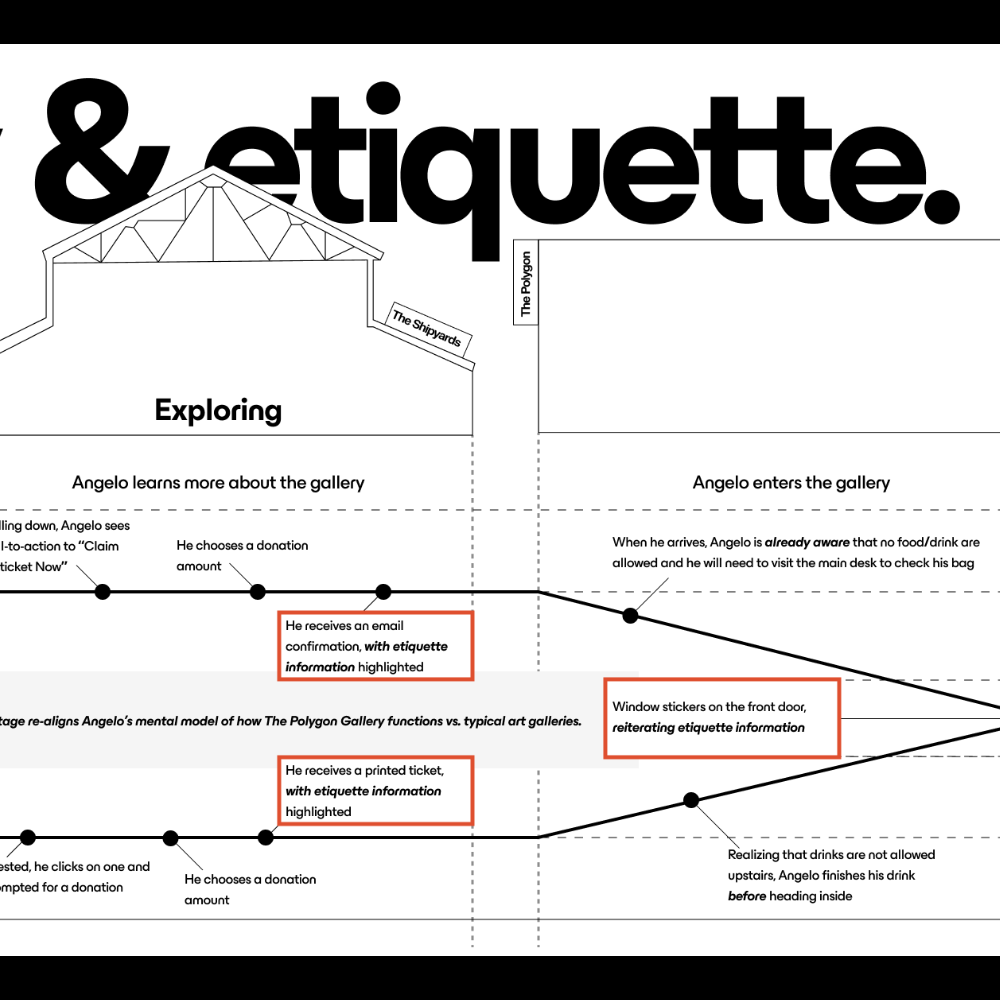
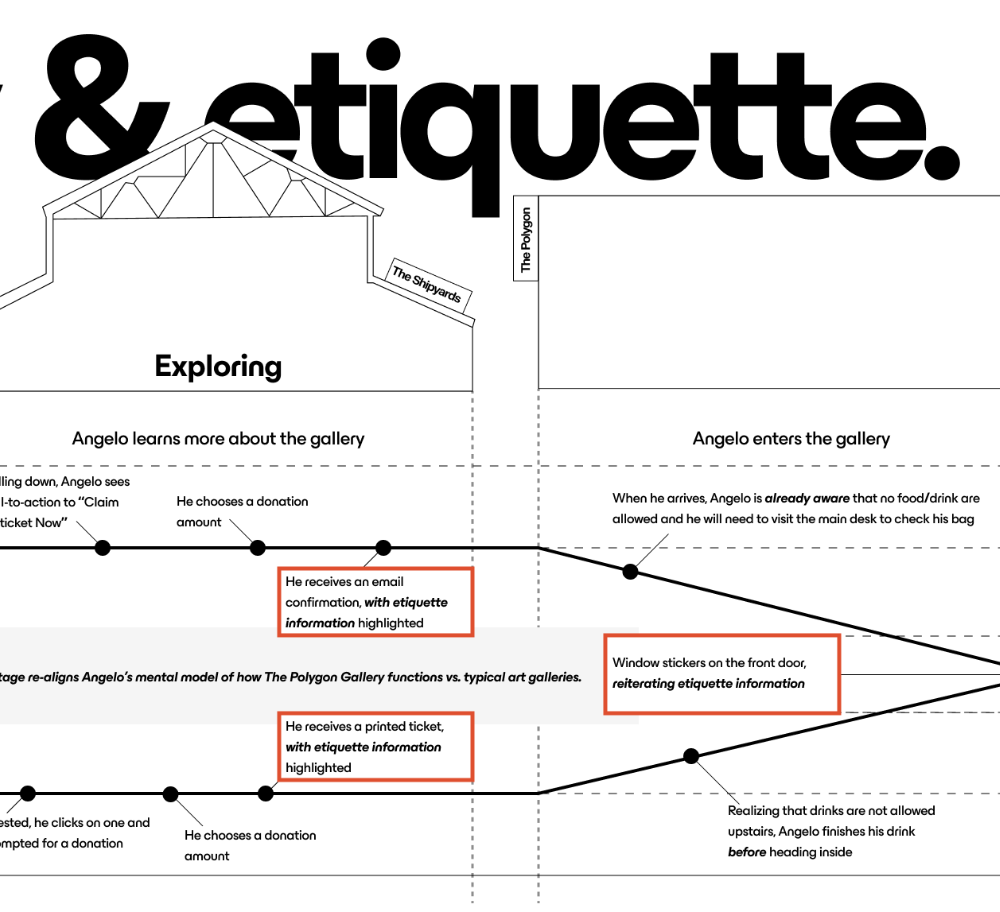
edit images and reorder slides

diff --git a/css/style.css b/css/style.css
@@ -1,1 +1,1 @@
-@import"https://fonts.googleapis.com/css2?family=Poppins:wght@100;300;400;700;900&display=swap";@import"https://fonts.googleapis.com/css2?family=Open+Sans:wght@300;400;700&display=swap";*{box-sizing:border-box;margin:0;padding:0}body{background-color:#f3ead8;font-family:Poppins,Open Sans,Helvetica,Arial,sans-serif;line-height:1.6;color:#333}img{border-radius:8px;height:30rem;-o-object-fit:cover;object-fit:cover;-o-object-position:top;object-position:top;max-width:100%}a{text-decoration:none;color:#70823e}p{max-width:38rem}#projects{padding-top:100px;margin-top:-100px}#project1{padding-top:100px;margin-top:-100px}#project2{padding-top:100px;margin-top:-100px}.showcase{background-color:#f3ead8;color:#333;margin-bottom:6rem}.showcase nav{display:flex;align-items:center;justify-content:space-between}.showcase nav a{text-decoration:none;color:#333;transition:color .25s}.showcase nav a:hover{color:#70823e}.showcase nav ul{display:flex;list-style:none}.showcase nav li{padding:15px}.showcase .hero{padding-right:1.5rem;margin-right:5rem}.showcase .hero-image{height:300px;width:300px}.showcase-content{height:100vh;display:flex;align-items:center;justify-content:center;padding-bottom:7rem}.showcase-content img{width:50%}.showcase-content h1{font-size:50px;line-height:1.2;margin-bottom:.25rem}#sticky-header{position:fixed;top:0;left:0;width:100%;box-shadow:0 0 50px rgba(0,0,0,.1);z-index:1;background-color:#f3ead8;color:#333}#sticky-header nav{display:flex;align-items:center;justify-content:space-between}#sticky-header nav a{text-decoration:none;color:#333;transition:color .25s}#sticky-header nav a:hover{color:#70823e}#sticky-header nav ul{display:flex;list-style:none}#sticky-header nav li{padding:15px}.guide-grid{display:grid;grid-template-columns:1fr 1fr 1fr;-moz-column-gap:3rem;column-gap:3rem}.guide-grid .column,.guide-grid .right,.guide-grid .middle,.guide-grid .left{width:100%;display:flex;flex-direction:column;justify-content:flex-start;margin-top:1rem;margin-bottom:10rem;padding:0}.guide-grid .column p,.guide-grid .right p,.guide-grid .middle p,.guide-grid .left p{margin:1rem 0}.guide-grid .column .container,.guide-grid .right .container,.guide-grid .middle .container,.guide-grid .left .container{margin:0}.guide-grid .example-showcase{background-color:#f3ead8;color:#333;display:flex;flex-direction:column;height:40%}.guide-grid .example-showcase .logo{margin-top:1rem;margin-bottom:1rem}.guide-grid .example-showcase nav{display:flex;flex-direction:column;align-items:left;justify-content:space-between}.guide-grid .example-showcase nav a{text-decoration:none;color:#333;transition:color .25s}.guide-grid .example-showcase nav a:hover{color:#70823e}.guide-grid .example-showcase nav ul{display:flex;flex-direction:column;align-items:left;list-style:none}.guide-grid .example-showcase nav li{padding:0}.font-box{display:flex;flex-direction:column;align-items:left;justify-self:flex-start}.example-font-1{font-family:Poppins}.example-font-2{font-family:Open Sans}.example-font-3{font-family:Helvetica}.example-font-4{font-family:Arial}.example-colour-0,.example-colour-6,.example-colour-5,.example-colour-4,.example-colour-3,.example-colour-2,.example-colour-1{background-color:gray;border-radius:8px;padding:1rem;margin:.5rem 0}.example-colour-1{background-color:#70823e}.example-colour-2{background-color:#dfcf99}.example-colour-3{background-color:#e0b44a}.example-colour-4{background-color:#d8853f}.example-colour-5{background-color:#f3ead8}.example-colour-6{background-color:#866c5a}.example-list{padding:0;margin-left:0;display:flex;flex-direction:column;justify-content:left;align-items:left}.example-nav a{text-decoration:none;color:#333;transition:color .25s}.example-nav a:hover{color:#70823e}.bio-grid{display:grid;grid-template-columns:2fr 1fr}.project-grid{display:grid;grid-template-columns:1fr 1fr;-moz-column-gap:2rem;column-gap:2rem;margin-bottom:6rem}.project-grid .column,.project-grid .guide-grid .left,.guide-grid .project-grid .left,.project-grid .guide-grid .middle,.guide-grid .project-grid .middle,.project-grid .guide-grid .right,.guide-grid .project-grid .right{display:flex;flex-direction:column;justify-content:center;align-items:center;margin-bottom:3rem}.project-title{text-align:center;margin-bottom:1rem}.project-flow{display:flex;flex-direction:column;margin-bottom:6rem}.project-flow .flow-row{display:grid;grid-template-columns:1fr 1fr;-moz-column-gap:2rem;column-gap:2rem;margin-bottom:2rem}.thumb{justify-content:center;max-height:300px;max-width:425px;transition:transform .5s}.thumb:hover{transform:scale(0.95)}.slideshow-container{max-width:1000px;position:relative;margin:auto}.mySlides1,.mySlides2,.mySlides3,.mySlides4,.mySlides5,.mySlides6,.mySlides7,.mySlides8{display:none}.prev,.next{cursor:pointer;position:absolute;top:50%;width:auto;margin-top:-22px;padding:16px;color:#fff;font-size:2rem;font-weight:bold;transition:.6s ease;border-radius:0 3px 3px 0;-webkit-user-select:none;-moz-user-select:none;user-select:none}.next{right:0;border-radius:3px 0 0 3px}.prev:hover,.next:hover{background-color:#f1f1f1;color:#000}.text{color:#f2f2f2;padding:8px 12px;position:absolute;bottom:8px;width:100%;text-align:center}.dot{cursor:pointer;height:15px;width:15px;margin:0 2px;background-color:#bbb;border-radius:50%;display:inline-block;transition:background-color .6s ease}.active,.dot:hover{background-color:#717171}.fade{animation-name:fade;animation-duration:1.5s}@keyframes fade{from{opacity:.4}to{opacity:1}}.video-box{margin-bottom:5rem}.bio-box{margin-bottom:5rem}.bio-box ul{margin-left:2rem;margin-bottom:2rem}.video-box{display:flex;justify-content:center;align-items:center}iframe{margin-top:1rem;margin-bottom:2rem}.container{max-width:1100px;padding:0 30px;margin:0 auto;overflow:auto}.contact-info{display:flex;flex-direction:column;justify-content:space-evenly;align-items:center;height:50vh}footer{text-align:center}#pixel-to-watch{position:absolute;width:1px;height:1px;top:100px;left:0}.references{margin-bottom:5rem}.m-1{margin:1rem}.my-1{margin:1rem 0}.p-1{padding:1rem}.py-1{padding:1rem 0}.m-2{margin:2rem}.my-2{margin:2rem 0}.p-2{padding:2rem}.py-2{padding:2rem 0}.m-3{margin:3rem}.my-3{margin:3rem 0}.p-3{padding:3rem}.py-3{padding:3rem 0}.m-4{margin:4rem}.my-4{margin:4rem 0}.p-4{padding:4rem}.py-4{padding:4rem 0}.m-5{margin:5rem}.my-5{margin:5rem 0}.p-5{padding:5rem}.py-5{padding:5rem 0}.btn-tertiary,.btn-secondary,.btn-primary{display:inline-block;border-radius:5px;padding:8px 20px;margin:3px;max-width:500px;transition:transform .5s}.btn-tertiary:hover,.btn-secondary:hover,.btn-primary:hover{transform:scale(0.95);cursor:pointer}.btn-primary{background-color:#70823e;color:#fff}.btn-secondary{background-color:#94ab52;color:#fff}.btn-tertiary{background-color:#b0c17e;color:#fff}.btn-stack{display:flex;flex-direction:row;justify-content:flex-start;align-items:start}.img-link{-o-object-fit:cover;object-fit:cover;width:200px;height:200px;border-radius:50%;transition:transform .5s}.img-link:hover{transform:scale(0.95)}.image-link-box{display:flex;justify-content:flex-start;align-items:center}@media(max-width: 700px){.showcase .logo{white-space:nowrap}.showcase nav{display:flex;flex-direction:column}.showcase .hero{padding-left:0;padding-right:0;margin-left:0;margin-right:0}.showcase .hero .myRole{margin-top:1rem}.showcase .btn-stack{margin-top:4rem}.showcase-content{text-align:center}.showcase-content img{display:none}.btn-stack{display:flex;flex-direction:column;justify-content:space-evenly;align-items:center}.btn-primary,.btn-secondary,.btn-tertiary{width:100%}.guide-grid{display:grid;grid-template-columns:1fr}}@media(max-width: 800px){.project-grid{display:flex;flex-direction:column}.project-flow{display:flex;flex-direction:column;margin-bottom:6rem}.project-flow .flow-row{display:grid;grid-template-columns:1fr;-moz-column-gap:2rem;column-gap:2rem;margin-bottom:2rem}.bio-grid{display:grid;grid-template-columns:1fr}.hero-image{display:none}}/*# sourceMappingURL=style.css.map */
+@import"https://fonts.googleapis.com/css2?family=Poppins:wght@100;300;400;700;900&display=swap";@import"https://fonts.googleapis.com/css2?family=Open+Sans:wght@300;400;700&display=swap";*{box-sizing:border-box;margin:0;padding:0}body{background-color:#f3ead8;font-family:Poppins,Open Sans,Helvetica,Arial,sans-serif;line-height:1.6;color:#333}img{border-radius:8px;height:30rem;-o-object-fit:cover;object-fit:cover;-o-object-position:top;object-position:top;max-width:100%}a{text-decoration:none;color:#70823e}p{max-width:38rem}#projects{padding-top:100px;margin-top:-100px}#project1{padding-top:100px;margin-top:-100px}#project2{padding-top:100px;margin-top:-100px}.showcase{background-color:#f3ead8;color:#333;margin-bottom:6rem}.showcase nav{display:flex;align-items:center;justify-content:space-between}.showcase nav a{text-decoration:none;color:#333;transition:color .25s}.showcase nav a:hover{color:#70823e}.showcase nav ul{display:flex;list-style:none}.showcase nav li{padding:15px}.showcase .hero{padding-right:1.5rem;margin-right:5rem}.showcase .hero-image{height:300px;width:300px}.showcase-content{height:100vh;display:flex;align-items:center;justify-content:center;padding-bottom:7rem}.showcase-content img{width:50%}.showcase-content h1{font-size:50px;line-height:1.2;margin-bottom:.25rem}#sticky-header{position:fixed;top:0;left:0;width:100%;box-shadow:0 0 50px rgba(0,0,0,.1);z-index:1;background-color:#f3ead8;color:#333}#sticky-header nav{display:flex;align-items:center;justify-content:space-between}#sticky-header nav a{text-decoration:none;color:#333;transition:color .25s}#sticky-header nav a:hover{color:#70823e}#sticky-header nav ul{display:flex;list-style:none}#sticky-header nav li{padding:15px}.guide-grid{display:grid;grid-template-columns:1fr 1fr 1fr;-moz-column-gap:3rem;column-gap:3rem}.guide-grid .column,.guide-grid .right,.guide-grid .middle,.guide-grid .left{width:100%;display:flex;flex-direction:column;justify-content:flex-start;margin-top:1rem;margin-bottom:10rem;padding:0}.guide-grid .column p,.guide-grid .right p,.guide-grid .middle p,.guide-grid .left p{margin:1rem 0}.guide-grid .column .container,.guide-grid .right .container,.guide-grid .middle .container,.guide-grid .left .container{margin:0}.guide-grid .example-showcase{background-color:#f3ead8;color:#333;display:flex;flex-direction:column;height:40%}.guide-grid .example-showcase .logo{margin-top:1rem;margin-bottom:1rem}.guide-grid .example-showcase nav{display:flex;flex-direction:column;align-items:left;justify-content:space-between}.guide-grid .example-showcase nav a{text-decoration:none;color:#333;transition:color .25s}.guide-grid .example-showcase nav a:hover{color:#70823e}.guide-grid .example-showcase nav ul{display:flex;flex-direction:column;align-items:left;list-style:none}.guide-grid .example-showcase nav li{padding:0}.font-box{display:flex;flex-direction:column;align-items:left;justify-self:flex-start}.example-font-1{font-family:Poppins}.example-font-2{font-family:Open Sans}.example-font-3{font-family:Helvetica}.example-font-4{font-family:Arial}.example-colour-0,.example-colour-6,.example-colour-5,.example-colour-4,.example-colour-3,.example-colour-2,.example-colour-1{background-color:gray;border-radius:8px;padding:1rem;margin:.5rem 0}.example-colour-1{background-color:#70823e}.example-colour-2{background-color:#dfcf99}.example-colour-3{background-color:#e0b44a}.example-colour-4{background-color:#d8853f}.example-colour-5{background-color:#f3ead8}.example-colour-6{background-color:#866c5a}.example-list{padding:0;margin-left:0;display:flex;flex-direction:column;justify-content:left;align-items:left}.example-nav a{text-decoration:none;color:#333;transition:color .25s}.example-nav a:hover{color:#70823e}.bio-grid{display:grid;grid-template-columns:2fr 1fr}.project-grid{display:grid;grid-template-columns:1fr 1fr;-moz-column-gap:2rem;column-gap:2rem;margin-bottom:6rem}.project-grid .column,.project-grid .guide-grid .left,.guide-grid .project-grid .left,.project-grid .guide-grid .middle,.guide-grid .project-grid .middle,.project-grid .guide-grid .right,.guide-grid .project-grid .right{display:flex;flex-direction:column;justify-content:center;align-items:center;margin-bottom:3rem}.project-title{text-align:center;margin-bottom:1rem}.project-flow{display:flex;flex-direction:column;margin-bottom:6rem}.project-flow .flow-row{display:grid;grid-template-columns:1fr 1fr;-moz-column-gap:2rem;column-gap:2rem;margin-bottom:2rem}.thumb{justify-content:center;max-width:450px;transition:transform .5s}.thumb:hover{transform:scale(0.95)}.slideshow-container{max-width:1000px;position:relative;margin:auto}.mySlides1,.mySlides2,.mySlides3,.mySlides4,.mySlides5,.mySlides6,.mySlides7,.mySlides8{display:none}.prev,.next{cursor:pointer;position:absolute;top:50%;width:auto;margin-top:-22px;padding:16px;color:#fff;font-size:2rem;font-weight:bold;transition:.6s ease;border-radius:0 3px 3px 0;-webkit-user-select:none;-moz-user-select:none;user-select:none}.next{right:0;border-radius:3px 0 0 3px}.prev:hover,.next:hover{background-color:#f1f1f1;color:#000}.text{color:#f2f2f2;padding:8px 12px;position:absolute;bottom:8px;width:100%;text-align:center}.dot{cursor:pointer;height:15px;width:15px;margin:0 2px;background-color:#bbb;border-radius:50%;display:inline-block;transition:background-color .6s ease}.active,.dot:hover{background-color:#717171}.fade{animation-name:fade;animation-duration:1.5s}@keyframes fade{from{opacity:.4}to{opacity:1}}.video-box{margin-bottom:5rem}.bio-box{margin-bottom:5rem}.bio-box ul{margin-left:2rem;margin-bottom:2rem}.video-box{display:flex;justify-content:center;align-items:center}iframe{margin-top:1rem;margin-bottom:2rem}.container{max-width:1100px;padding:0 30px;margin:0 auto;overflow:auto}.contact-info{display:flex;flex-direction:column;justify-content:space-evenly;align-items:center;height:50vh}footer{text-align:center}#pixel-to-watch{position:absolute;width:1px;height:1px;top:100px;left:0}.references{margin-bottom:5rem}.m-1{margin:1rem}.my-1{margin:1rem 0}.p-1{padding:1rem}.py-1{padding:1rem 0}.m-2{margin:2rem}.my-2{margin:2rem 0}.p-2{padding:2rem}.py-2{padding:2rem 0}.m-3{margin:3rem}.my-3{margin:3rem 0}.p-3{padding:3rem}.py-3{padding:3rem 0}.m-4{margin:4rem}.my-4{margin:4rem 0}.p-4{padding:4rem}.py-4{padding:4rem 0}.m-5{margin:5rem}.my-5{margin:5rem 0}.p-5{padding:5rem}.py-5{padding:5rem 0}.btn-tertiary,.btn-secondary,.btn-primary{display:inline-block;border-radius:5px;padding:8px 20px;margin:3px;max-width:500px;transition:transform .5s}.btn-tertiary:hover,.btn-secondary:hover,.btn-primary:hover{transform:scale(0.95);cursor:pointer}.btn-primary{background-color:#70823e;color:#fff}.btn-secondary{background-color:#94ab52;color:#fff}.btn-tertiary{background-color:#b0c17e;color:#fff}.btn-stack{display:flex;flex-direction:row;justify-content:flex-start;align-items:start}.img-link{-o-object-fit:cover;object-fit:cover;width:200px;height:200px;border-radius:50%;transition:transform .5s}.img-link:hover{transform:scale(0.95)}.image-link-box{display:flex;justify-content:flex-start;align-items:center}@media(max-width: 700px){.showcase .logo{white-space:nowrap}.showcase nav{display:flex;flex-direction:column}.showcase .hero{padding-left:0;padding-right:0;margin-left:0;margin-right:0}.showcase .hero .myRole{margin-top:1rem}.showcase .btn-stack{margin-top:4rem}.showcase-content{text-align:center}.showcase-content img{display:none}.btn-stack{display:flex;flex-direction:column;justify-content:space-evenly;align-items:center}.btn-primary,.btn-secondary,.btn-tertiary{width:100%}.guide-grid{display:grid;grid-template-columns:1fr}}@media(max-width: 800px){.project-grid{display:flex;flex-direction:column}.project-flow{display:flex;flex-direction:column;margin-bottom:6rem}.project-flow .flow-row{display:grid;grid-template-columns:1fr;-moz-column-gap:2rem;column-gap:2rem;margin-bottom:2rem}.bio-grid{display:grid;grid-template-columns:1fr}.hero-image{display:none}}/*# sourceMappingURL=style.css.map */

diff --git a/index.html b/index.html
@@ -103,7 +103,7 @@
 
                 <div class="column">
                     <a href="#project2">
-                        <img class="thumb" src="img/polygon/polygon_thumb.png" alt="poster showcasing some of the exhibits at The Polygon Gallery in North Vancouver, the building architecture is modern and stylish">
+                        <img class="thumb" src="img/polygon/cropped/polygon_final_ticket_station.png" alt="poster showcasing some of the exhibits at The Polygon Gallery in North Vancouver, the building architecture is modern and stylish">
                     </a>
                     The Polygon Gallery - Interaction Desgin
                 </div>
@@ -334,11 +334,11 @@
                         <!-- Slideshow goes here-->
                         <div class="slideshow-container">
                             <div class="mySlides5">
-                            <img src="img/polygon/polygon_ethnography_poster2.png" style="width:100%" alt="Informational poster made to convey who the Polygon Gallery is to classmates and teaching staff. Large type highlights the polygon gallery name, with examples of their exhibits overlaid. Small text blocks highlight the gallery's focus on photography, its location in the shipyards area of north vancouver, and our key contacts in management.">
+                                <img src="img/polygon/polygon_thumb.png" style="width:100%" alt="An iteration on the information poster made to convey who the polygon is. This version features larger images which highlight the modern architecture of the building, the exhibits it holds, and the events that occur there.">
                             </div>
                                            
                             <div class="mySlides5">
-                            <img src="img/polygon/polygon_ethnography_poster1.png" style="width:100%" alt="An iteration on the information poster made to convey who the polygon is. This version features larger images which highlight the modern architecture of the building, the exhibits it holds, and the events that occur there.">
+                                <img src="img/polygon/polygon_ethnography_poster2.png" style="width:100%" alt="Informational poster made to convey who the Polygon Gallery is to classmates and teaching staff. Large type highlights the polygon gallery name, with examples of their exhibits overlaid. Small text blocks highlight the gallery's focus on photography, its location in the shipyards area of north vancouver, and our key contacts in management.">
                             </div>
                         
                             <a class="prev" onclick="plusSlides(-1, 4)">&#10094;</a>
@@ -367,7 +367,7 @@
                         <!-- Slideshow goes here, show scheduling evidence-->
                         <div class="slideshow-container">
                             <div class="mySlides6">
-                                <img src="img/polygon/cropped/polygon_management01.png" style="width:100%" alt="screenshot of internal team messages, where I have recapped the meeting, confirmed roles, set the time for the next meeting, and left prompting questions for our next conversation">
+                                <img src="img/polygon/cropped/polygon_management01.png" style="height: 50%" alt="screenshot of internal team messages, where I have recapped the meeting, confirmed roles, set the time for the next meeting, and left prompting questions for our next conversation">
                             </div>
                         
                             <div class="mySlides6">
@@ -411,7 +411,7 @@
                         <!-- Slideshow goes here, show planning images, drawings, to model, to, render etc.-->
                         <div class="slideshow-container">
                             <div class="mySlides7">
-                            <img src="img/polygon/cropped/polygon_brainstorm_storyboard.png" style="width:100%" alt="screenshot of the team brainstorming process using Figma, there are numerous sticky notes organized into different design focus areas, doodles, sketches, and reference imagery scattered around.">
+                            <img src="img/polygon/cropped/polygon_brainstorm_storyboard.png" style="height:100%" alt="screenshot of the team brainstorming process using Figma, there are numerous sticky notes organized into different design focus areas, doodles, sketches, and reference imagery scattered around.">
                             </div>
                         
                             <div class="mySlides7">
@@ -499,7 +499,7 @@
                         </p>
                     </div>
                     <div class="right">
-                        <img class="img-process" src="img/polygon/cropped/polygon_final_ticket_station.png" alt="final prototype ticket station built by the team, it is a wooden structure in the shape of the polygon gallery with a cut-out section of the top face where tickets are presented to the visitor">                        
+                        <img class="img-process" style="width: 100%;" src="img/polygon/cropped/polygon_final_ticket_station.png" alt="final prototype ticket station built by the team, it is a wooden structure in the shape of the polygon gallery with a cut-out section of the top face where tickets are presented to the visitor">                        
                     </div>
                 </div>
             </div>

diff --git a/scss/style.scss b/scss/style.scss
@@ -285,8 +285,8 @@ p {
 
 .thumb{
     justify-content: center;
-    max-height: 300px;
-    max-width: 425px;
+    // max-height: 250px;
+    max-width: 450px;
     transition: transform 0.5s;
 
     &:hover{
